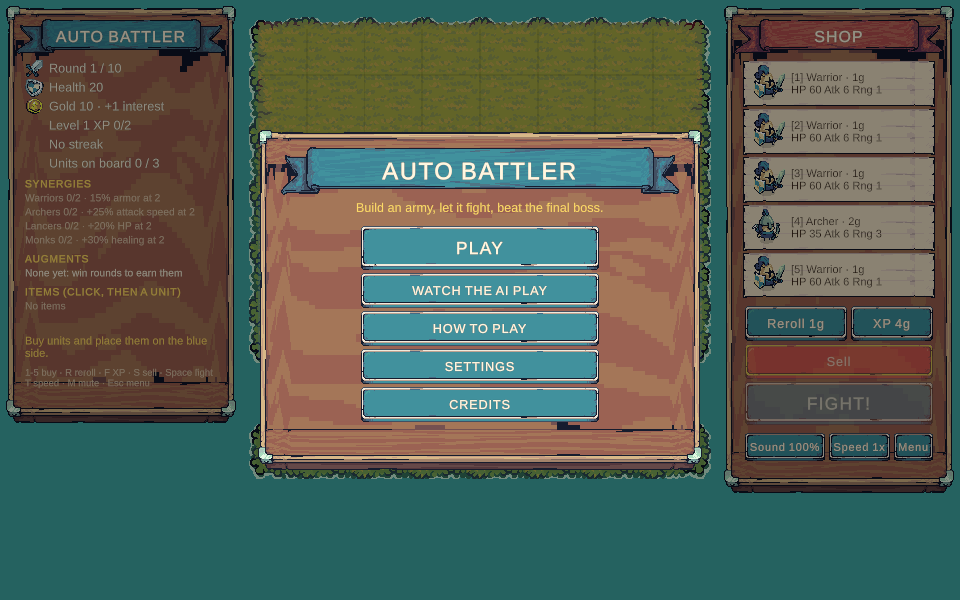
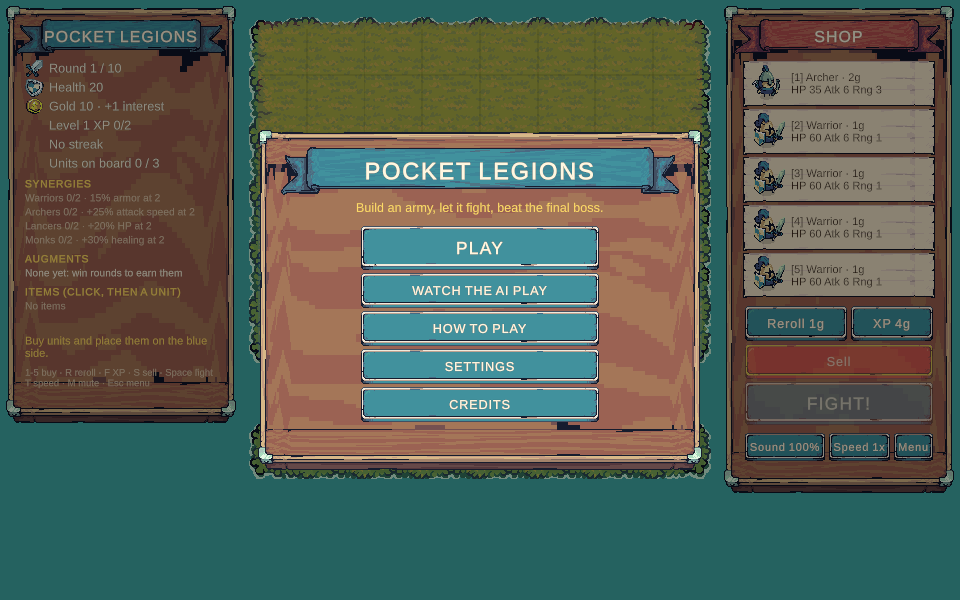
Update README, HUD, start menu and screenshots

diff --git a/Assets/Scripts/Game/StartMenu.cs b/Assets/Scripts/Game/StartMenu.cs
@@ -36,7 +36,7 @@ namespace AutoBattler.Game
             panel.style.paddingBottom = 60;
             _overlay.Add(panel);
 
-            var title = Hud.Ribbon(panel, "AUTO BATTLER", row: 0);
+            var title = Hud.Ribbon(panel, "POCKET LEGIONS", row: 0);
             title.style.height = 60;
             title.style.fontSize = 30;
             _subtitle = Hud.Text(panel, 16, Hud.MessageText, "Build an army, let it fight, beat the final boss.");

diff --git a/Assets/Scripts/Game/Hud.cs b/Assets/Scripts/Game/Hud.cs
@@ -65,7 +65,7 @@ namespace AutoBattler.Game
 
             // left panel
             var left = Panel(root);
-            Ribbon(left, "AUTO BATTLER", row: 0);
+            Ribbon(left, "POCKET LEGIONS", row: 0);
             _round = Stat(left, Art.Icon(5));
             _health = Stat(left, Art.Icon(6));
             _gold = Stat(left, Art.Icon(3));

diff --git a/Assets/Scripts/Editor/BalanceSimRunner.cs b/Assets/Scripts/Editor/BalanceSimRunner.cs
@@ -9,7 +9,7 @@ namespace AutoBattler.Editor
     {
         private const int DefaultRuns = 1000;
 
-        [MenuItem("Auto Battler/Run Balance Simulation")]
+        [MenuItem("Pocket Legions/Run Balance Simulation")]
         public static void RunFromMenu()
         {
             var report = BalanceSimulation.Run(DefaultRuns);

diff --git a/README.md b/README.md
@@ -1,4 +1,4 @@
-# Auto Battler
+# Pocket Legions
 
 A browser auto battler built in Unity 6. Buy units, arrange them on a grid, and watch them fight on their own.
 Three copies merge into a stronger unit, class synergies and items shape your army, and two boss rounds stand
@@ -7,12 +7,12 @@ a second.
 
 ![The round 5 boss fight, played by the built-in AI demo](docs/gameplay.gif)
 
-**Play in the browser:** _coming soon on itch.io_ <!-- TODO: replace with https://<user>.itch.io/auto-battler -->
+**Play in the browser:** _coming soon on itch.io_ <!-- TODO: replace with https://<user>.itch.io/pocket-legions -->
 · Want to see a run without playing? Choose **Watch the AI Play** in the menu.
 
-| Start menu | Mid-run shop and synergies |
-| ---------- | -------------------------- |
-| ![Start menu](docs/menu.png) | ![Shop with active synergies](docs/shop.png) |
+| Start menu | Round 7 battle with active synergies |
+| ---------- | ------------------------------------ |
+| ![Start menu](docs/menu.png) | ![Round 7 battle](docs/battle.png) |
 
 ## Highlights
 
@@ -223,7 +223,7 @@ A test (`TunedBalance_KeepsTheBotNearTheTargetWinRate`) runs 300 seeded runs and
   dotnet run -c Release -- 1000 1      # runs, first seed, [optional bot gold reserve]
   ```
 
-- **In the editor:** **Auto Battler → Run Balance Simulation** logs the report to the Console.
+- **In the editor:** **Pocket Legions → Run Balance Simulation** logs the report to the Console.
 - **Unity command line** (editor closed):
 
   ```sh
